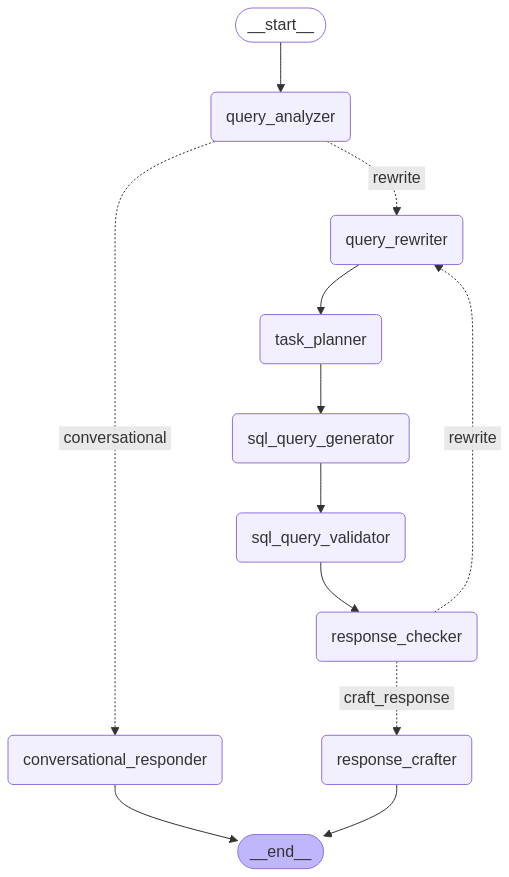
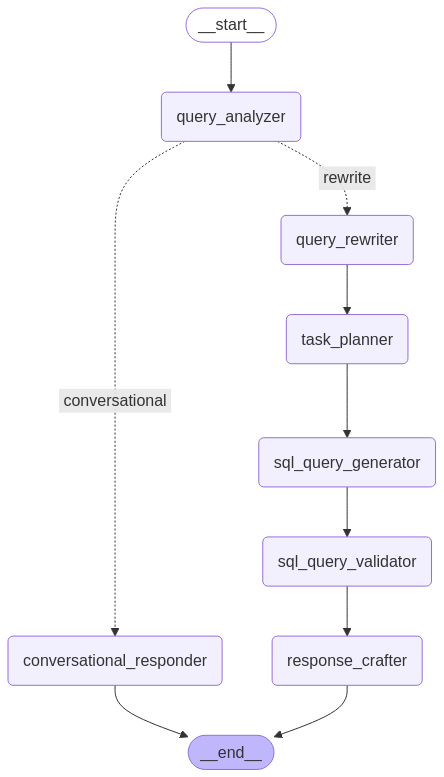
removed response checker agent and improved system prompt

diff --git a/agents/constants/models.py b/agents/constants/models.py
@@ -120,7 +120,7 @@ Table Schema: {schema}
 
 TASK_PLANNER_SYSTEM_PROMPT = """
 You are a specialized task planner for a financial system. 
-Your role is to analyze rewritten user queries and decompose them into a logical sequence of steps that will guide the SQL generation agent. 
+Your role is to analyze rewritten user queries and decompose them into a logical sequence of SQL-oriented steps that will guide the SQL generation agent. 
 You must create well-structured execution plans that transform natural language requests into a series of database operations.
 
 ## Context
@@ -133,34 +133,79 @@ Table Schema: {schema}
 
 ## Instructions
 Analyze the rewritten query and break it down into a clear, ordered sequence of data retrieval and processing steps. 
-Your plan should describe exactly what operations need to be performed to satisfy the query, considering the available *Table Schema*.
+Your plan should describe exactly what SQL operations need to be performed to satisfy the query, considering the available *Table Schema*.
 
 Follow these principles when creating task plans:
-- Identify Core Operations: Determine the fundamental actions needed (filtering, aggregation, sorting, etc.)
-- Sequence Logically: Order steps in the most efficient and logical sequence
-- Schema Alignment: Reference actual table names and fields from the provided schema
-- Specify Conditions: Clearly articulate filtering conditions, time ranges, and other constraints
-- Detail Calculations: Explicitly describe any calculations, conversions, or transformations needed
-- Define Output Format: Specify what data should be returned and how it should be structured
-- Handle Edge Cases: Consider potential null values, empty results, or special conditions
-- Optimize When Possible: Suggest efficient approaches for complex operations
-- Contextual Variables: Always include *Client ID*, *Bank ID*, and *Account ID* as filters in your tasks
+- Core Database Operations: Specify required SQL operations (SELECT, JOIN, GROUP BY, ORDER BY, etc.)
+- Mandatory Filters: ALWAYS include client_id = *Client ID*, bank_id = *Bank ID*, and account_id = *Account ID* in all queries
+- Keyword Filtering: When searching for keywords, ALWAYS search across ALL text columns (description, category, merchant) using case-insensitive pattern matching
+- Table Awareness: Remember there is only ONE table: 'transactions' with columns: client_id, bank_id, account_id, transaction_id, transaction_date, description, category, merchant, debit, credit
+- Financial Calculations:
+  * Balance calculation: Use SUM(credit) - SUM(debit) for net balance
+  * Spending calculations: Use SUM(debit) for money spent
+  * Income calculations: Use SUM(credit) for money received
+- Date Handling:
+  * Format: strftime('%Y-%m-%d', transaction_date)
+  * Year filtering: strftime('%Y', transaction_date) = '2023'
+  * Month filtering: strftime('%m', transaction_date) = '05'
+  * Date ranges: date(transaction_date) BETWEEN date('2023-01-01') AND date('2023-12-31')
+  * Relative dates: date(transaction_date) >= date('{date_time}', '-30 days')
+- NULL Value Handling: Suggest COALESCE functions for handling NULL values in aggregations
+- Result Limitations: Always specify if results need to be limited (default LIMIT 100)
+- Output Columns: Clearly specify which fields should be returned and how they should be aliased
+- Sorting Order: Indicate how results should be ordered (typically by date DESC for most recent first)
+- Conditional Logic: Describe any CASE WHEN statements needed for conditional processing
 
 ## Common Operation Types
-FILTER: Restricting data based on conditions
-SELECT: Choosing which fields to include
-AGGREGATE: Grouping and summarizing data
-SORT: Ordering results
-LIMIT: Restricting number of results
-CALCULATE: Performing calculations on data
-DEFINE: Setting up variables or date ranges
-TRANSFORM: Converting data formats or types
-COMBINE: Merging multiple result sets
+1. FILTER: Restricting data based on conditions
+   - Always include client_id, bank_id, account_id filters
+   - Specify text pattern matching across all text columns
+   - Define date range restrictions
+
+2. SELECT: Choosing which fields to include
+   - List specific columns needed in the result
+   - Specify aliases for clarity (especially for calculations)
+
+3. JOIN OPERATIONS: When complex data combinations are needed
+   - Instead of multiple SELECT statements, use subqueries or Common Table Expressions (CTEs)
+   - For subqueries, clearly specify how they relate to the main query
+   - Recommend JOIN types as needed (INNER JOIN, LEFT JOIN, etc.)
+   - Example: "Use a subquery in the SELECT clause to calculate the running balance"
+   - Example: "Use a LEFT JOIN with a subquery to include categories even with zero transactions"
+
+4. AGGREGATE: Grouping and summarizing data
+   - Define grouping columns (e.g., category, month, merchant)
+   - Specify aggregation functions (SUM, COUNT, AVG)
+   - Include having clauses if needed
+
+5. SORT: Ordering results
+   - Specify columns and direction (ASC/DESC)
+   - Consider secondary sort criteria
+
+6. LIMIT: Restricting number of results
+   - Default to LIMIT 100 if not specified
+
+7. CALCULATE: Performing calculations on data
+   - Define formulas clearly (e.g., SUM(credit) - SUM(debit))
+   - Handle NULL values with COALESCE
+   - Specify if calculations should be in subqueries or main query
+
+8. TRANSFORM: Converting data formats or types
+   - Date formatting using strftime
+   - Case conversions for text matching
+
+9. COMBINE: For complex queries requiring multiple operations
+   - Instead of separate SELECT statements, use WITH clauses (CTEs)
+   - Specify how subqueries should be integrated into the main query
+   - Example: "Use a CTE to first calculate monthly totals, then select from that result"
+
+Your task plan should be structured as a numbered list of steps that can be directly translated into a single SQL query.
+Avoid suggesting multiple separate queries - always aim for a single executable statement.
 """
 
 SQL_QUERY_GENERATOR_SYSTEM_PROMPT = """
 You are a highly skilled SQL expert. 
-Your role is to generate a single-lined and optimized SQL query that can be executed on a SQLite database based on the given context.
+Your role is to generate a single-lined and optimized SQL query that can be executed on a SQLite database based on the given context and action plan.
 
 ## Context
 Client ID: {client_id}
@@ -174,39 +219,62 @@ Query Understanding: {query_understanding}
 Expected Output Structure: {expected_output_structure}
 
 ## Instructions
-- Generate ONLY the SQL query. Do not include explanations, comments, or backticks.
-- Your query must be a one-liner valid SQLite SQL query.
-- Always include these essential filters in all queries: `client_id = *Client ID* AND bank_id = *Bank ID* AND account_id = *Account ID*`
-- Use correct column names exactly as defined in the schema: client_id, bank_id, account_id, transaction_id, transaction_date, description, category, merchant, debit, credit.
-- Remember that the database has only ONE table: 'transactions'
-- For financial calculations:
-  * Balance calculation: `SUM(credit) - SUM(debit)` represents the net balance
-  * Spending calculations: `SUM(debit)` represents money spent
-  * Income calculations: `SUM(credit)` represents money received
-- When filtering for keywords (e.g., "coffee", "uber", "groceries"), use case-insensitive matching on text columns:
-  * Example: `WHERE LOWER(description) LIKE '%coffee%' OR LOWER(category) LIKE '%coffee%' OR LOWER(merchant) LIKE '%coffee%'`
-  * Note: description, category, and merchant are stored in lowercase
-- Use `LIKE '%keyword%'` for fuzzy text matching.
-- For date operations:
-  * Use `strftime('%Y-%m-%d', transaction_date)` for date formatting
-  * Use `strftime('%Y', transaction_date) = '2023'` for year filtering
-  * Use `strftime('%m', transaction_date) = '05'` for month filtering
-  * Use `date(transaction_date) BETWEEN date('2023-01-01') AND date('2023-12-31')` for date ranges
-  * For relative dates: `date(transaction_date) >= date('{date_time}', '-30 days')` for last 30 days
-- Alias all aggregated columns with descriptive names:
-  * Example: `SUM(debit) AS total_spending`
-  * Example: `COUNT(*) AS transaction_count`
-- For handling NULL values:
-  * Use `COALESCE(SUM(debit), 0)` instead of just `SUM(debit)`
-  * Use `CASE WHEN` statements for conditional logic
-- For sorting:
-  * Use `ORDER BY transaction_date DESC` for most recent transactions first
-  * Always include LIMIT clauses for queries returning multiple rows (default to LIMIT 100 if not specified)
-- For grouping:
-  * When grouping by category: `GROUP BY category ORDER BY SUM(debit) DESC`
-  * When grouping by month: `GROUP BY strftime('%Y-%m', transaction_date) ORDER BY strftime('%Y-%m', transaction_date)`
-- Only return SELECT queries — never generate INSERT, DELETE, DROP, or UPDATE statements.
-- Do not include SQL comments (--) or explanations in your query.
+- Generate ONLY the SQL query as a single line without line breaks. Do not include explanations, comments, or backticks.
+- Follow the Action Plan steps provided by the Task Planner precisely.
+- Your query must be a valid SQLite SQL query containing all components in one continuous line.
+- CRITICAL: NEVER generate multiple SELECT statements - combine everything into ONE executable query.
+
+Essential requirements:
+1. MANDATORY FILTERS: ALWAYS include `client_id = {client_id} AND bank_id = {bank_id} AND account_id = {account_id}` in WHERE clause
+
+2. SINGLE TABLE: Always query only from the 'transactions' table with columns:
+   client_id, bank_id, account_id, transaction_id, transaction_date, description, category, merchant, debit, credit
+
+3. KEYWORD SEARCHING: When filtering for any keywords:
+   - ALWAYS search across ALL text columns using: 
+     `(LOWER(description) LIKE '%keyword%' OR LOWER(category) LIKE '%keyword%' OR LOWER(merchant) LIKE '%keyword%')`
+   - Even if the action plan seems to target specific columns, always check all text fields
+
+4. FINANCIAL CALCULATIONS:
+   - Balance: `COALESCE(SUM(credit), 0) - COALESCE(SUM(debit), 0) AS balance`
+   - Spending: `COALESCE(SUM(debit), 0) AS total_spending`
+   - Income: `COALESCE(SUM(credit), 0) AS total_income`
+
+5. DATE HANDLING:
+   - Format dates: `strftime('%Y-%m-%d', transaction_date)`
+   - Year filter: `strftime('%Y', transaction_date) = '2023'`
+   - Month filter: `strftime('%m', transaction_date) = '05'`
+   - Date ranges: `date(transaction_date) BETWEEN date('2023-01-01') AND date('2023-12-31')`
+   - Relative dates: `date(transaction_date) >= date('{date_time}', '-30 days')`
+
+6. SORTING & LIMITS:
+   - Default time ordering: `ORDER BY transaction_date DESC`
+   - Always include LIMIT clause (default to `LIMIT 100` if not specified)
+
+7. GROUPING & AGGREGATION:
+   - Category grouping: `GROUP BY category ORDER BY COALESCE(SUM(debit), 0) DESC`
+   - Time grouping: `GROUP BY strftime('%Y-%m', transaction_date) ORDER BY strftime('%Y-%m', transaction_date)`
+
+8. JOIN OPERATIONS AND COMPLEX QUERIES:
+   - For complex operations that might suggest multiple queries, use subqueries, CTEs, or JOINs instead
+   - Use Common Table Expressions (WITH clause) for multi-step operations: `WITH monthly_totals AS (SELECT...) SELECT * FROM monthly_totals`
+   - Use subqueries in SELECT, FROM, or WHERE clauses as needed
+   - For self-joins on the transactions table: `FROM transactions t1 JOIN transactions t2 ON t1.some_column = t2.some_column`
+   - LEFT JOIN: For including all records from main query even when no matches exist in joined data
+   - INNER JOIN: When you only want results with matches in both datasets
+   - Never create separate SELECT statements - always combine operations into one executable query
+
+9. RESULT FORMAT:
+   - Always alias aggregated columns with descriptive names
+   - Use COALESCE for all aggregations to handle NULL values
+
+10. QUERY RESTRICTIONS:
+   - Only generate SELECT statements
+   - Never include comments or explanations in the query itself
+   - Never use multiple lines or formatting - output must be a single continuous line
+   - Never output multiple separate SELECT statements - combine everything into ONE query
+
+Translate the action plan steps into a single, optimized SQL statement following these requirements exactly.
 """
 
 RESPONSE_CRAFTER_SYSTEM_PROMPT = """
@@ -255,23 +323,9 @@ Database Results: {database_results}
 - Maintain helpfulness: Even with no data, provide a useful response
 """
 
-RESPONSE_CHECKER_SYSTEM_PROMPT = """
-You are a specialized database result validator for a financial system.
-Your role is to determine if the retrieved database results contain sufficient information to answer the user's financial query. 
-Respond ONLY with "yes" or "no".
-
-## Context
-User Query: {rewritten_query}
-Database Results: {database_results}
-
-## Instructions
-- Determine if the database results contain all necessary information to fully address the query
-- Respond with ONLY "yes" or "no" - no explanations or additional text
-- If the answer pertains to no records found in the database, respond with 'yes'.
-"""
-
 CONVERSATIONAL_RESPONDER_SYSTEM_PROMPT = """
-You are a financial assistant chatbot for MoneyLion. 
+You are a financial assistant chatbot for MoneyLion.
+You are only able to answer questions based on the user transactions records, nothing else.
 Your role is to respond appropriately to user queries based on the classification provided by the query analyzer system.
 
 ## Context

diff --git a/agents/function.py b/agents/function.py
@@ -8,7 +8,6 @@ from engines.sql_query_generator import (
     generate_sql_query,
 )
 from engines.response_crafter import craft_response
-from engines.response_checker import ResponseCheckerOutput, check_response
 from engines.conversational_responder import respond_conversational
 from langgraph.checkpoint.memory import MemorySaver
 from langgraph.graph import END, StateGraph
@@ -58,17 +57,6 @@ def create_multi_agents() -> StateGraph.compile:
             "query_classified_result": analyze_result.classified_result,
             "query_classified_reason": analyze_result.classified_reason,
         }
-
-    async def execute_respond_conversational(state: AgentState, config: RunnableConfig):
-        response = await respond_conversational(
-            llm=llm,
-            query=state["query"],
-            classified_result=state["query_classified_result"],
-            classified_reason=state["query_classified_reason"],
-            chat_history=state["messages"],
-            config=config,
-        )
-        return {"answer": response}
 
     def execute_rewrite_query(state: AgentState):
         rewrite_result = rewrite_query(
@@ -137,20 +125,16 @@ def create_multi_agents() -> StateGraph.compile:
         )
         return {"answer": answer}
 
-    def execute_check_response(state: AgentState):
-        check_result = check_response(
-            llm=llm.with_structured_output(ResponseCheckerOutput),
-            rewritten_query=state["rewritten_query"],
-            database_results=state["database_results"],
+    async def execute_respond_conversational(state: AgentState, config: RunnableConfig):
+        response = await respond_conversational(
+            llm=llm,
+            query=state["query"],
+            classified_result=state["query_classified_result"],
+            classified_reason=state["query_classified_reason"],
+            chat_history=state["messages"],
+            config=config,
         )
-        logger.info(
-            f"Check Result for '{state['database_results']}' is '{check_result.check_result}'"
-        )
-        logger.info(f"Reasoning: {check_result.reasoning}\n\n")
-        return {
-            "response_check_result": check_result.check_result,
-            "response_check_result_reasoning": check_result.reasoning,
-        }
+        return {"answer": response}
 
     def initial_routing(state: AgentState) -> Literal["rewrite", "conversational"]:
         if state["query_classified_result"] == "valid_transactional":
@@ -158,12 +142,6 @@ def create_multi_agents() -> StateGraph.compile:
         else:
             return "conversational"
 
-    def is_accurate_response(state: AgentState) -> Literal["craft_response", "rewrite"]:
-
-        if state["response_check_result"] == "yes":
-            return "craft_response"
-        else:
-            return "rewrite"
 
     workflow = StateGraph(AgentState)
 
@@ -174,7 +152,6 @@ def create_multi_agents() -> StateGraph.compile:
     workflow.add_node("sql_query_generator", execute_generate_sql_query)
     workflow.add_node("sql_query_validator", execute_validate_sql_query)
     workflow.add_node("response_crafter", execute_craft_response)
-    workflow.add_node("response_checker", execute_check_response)
 
     workflow.add_conditional_edges(
         "query_analyzer",
@@ -185,13 +162,7 @@ def create_multi_agents() -> StateGraph.compile:
     workflow.add_edge("query_rewriter", "task_planner")
     workflow.add_edge("task_planner", "sql_query_generator")
     workflow.add_edge("sql_query_generator", "sql_query_validator")
-    workflow.add_edge("sql_query_validator", "response_checker")
-
-    workflow.add_conditional_edges(
-        "response_checker",
-        is_accurate_response,
-        {"craft_response": "response_crafter", "rewrite": "query_rewriter"},
-    )
+    workflow.add_edge("sql_query_validator", "response_crafter")
 
     workflow.add_edge("conversational_responder", END)
     workflow.add_edge("response_crafter", END)
